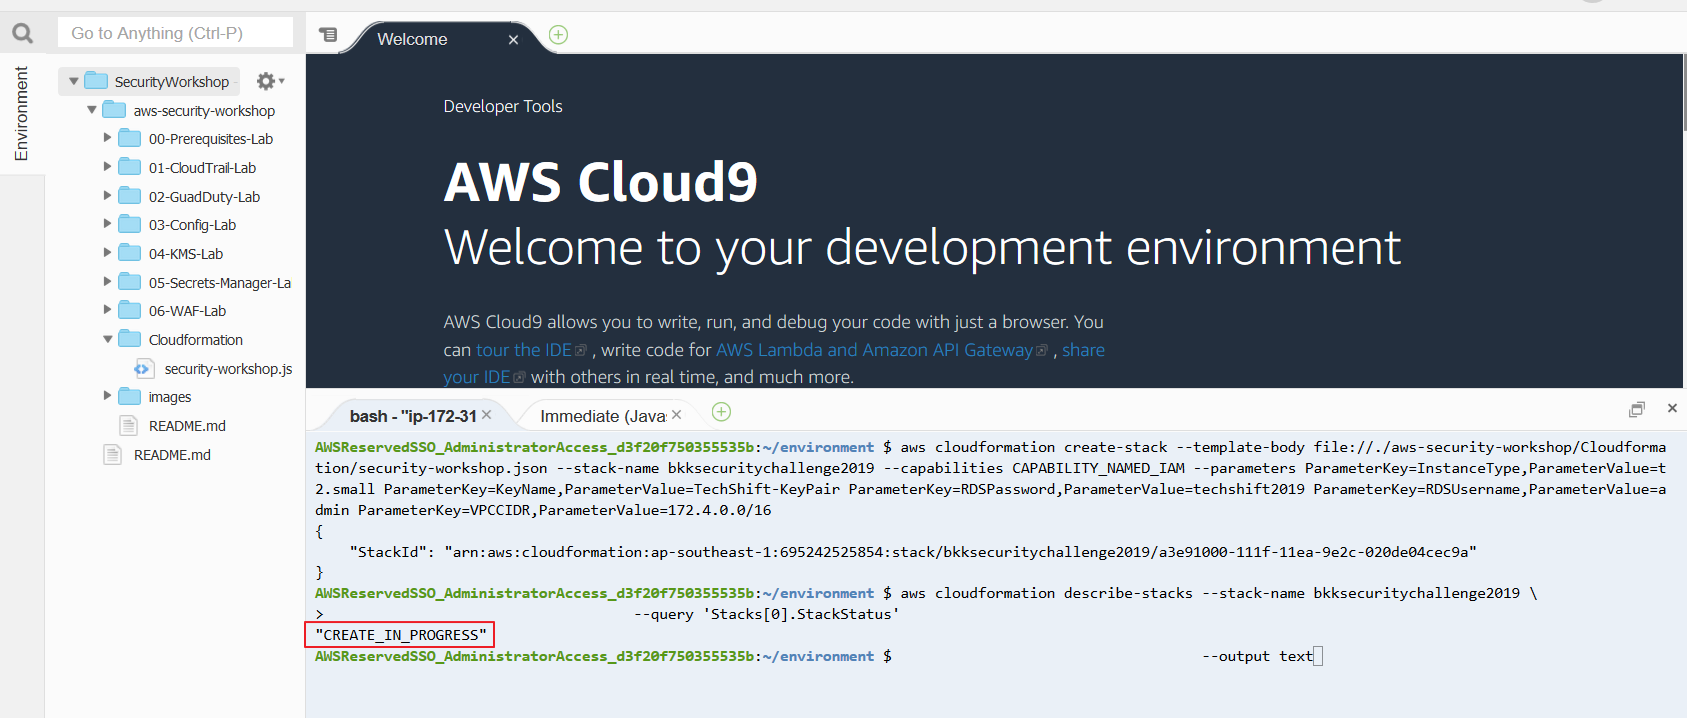
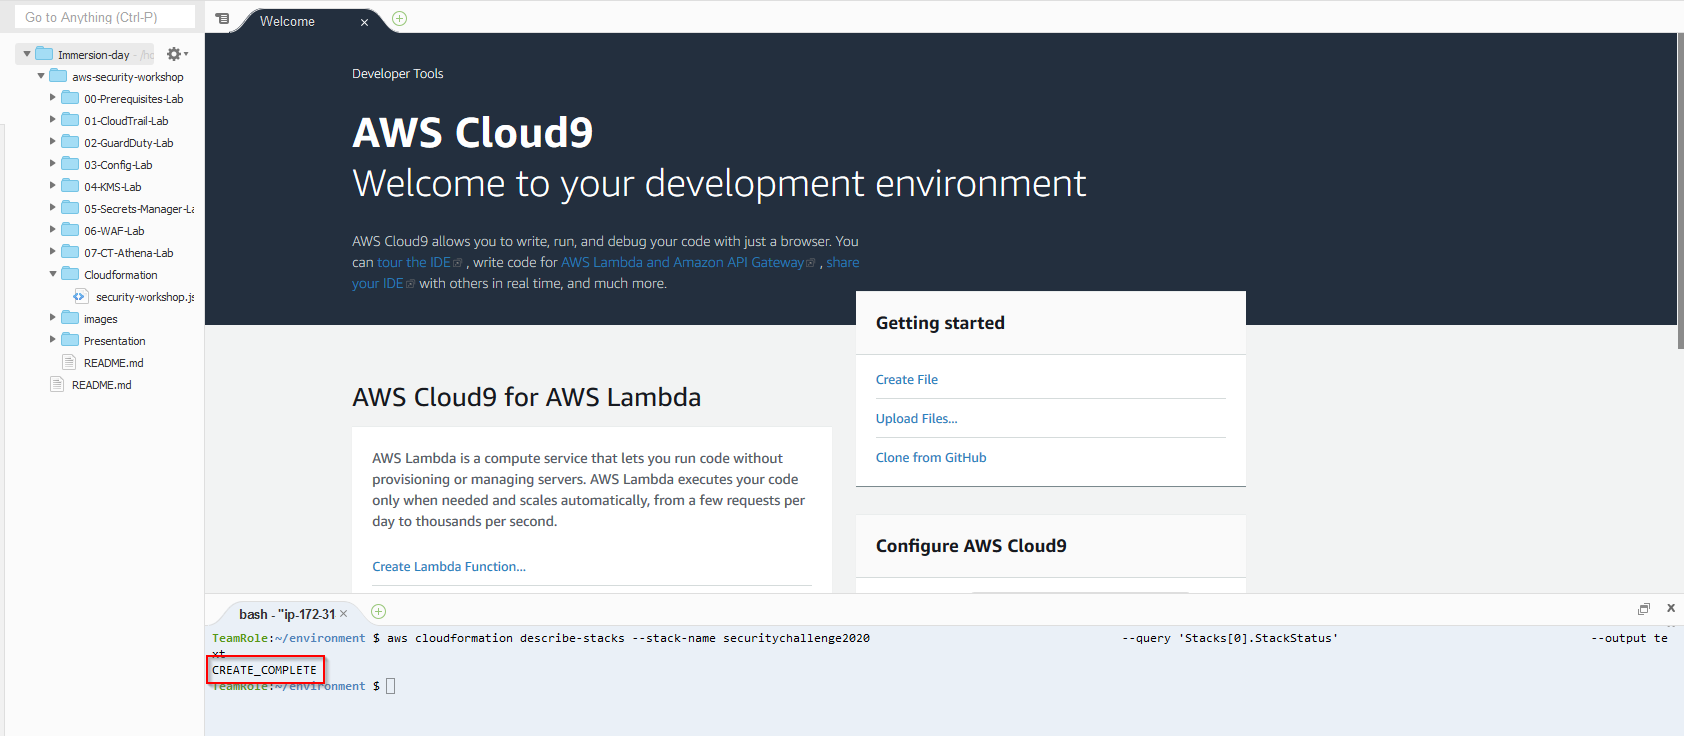
change the prerequisites

Changed region(s): [[0.0, 0.0, 1.0, 0.7354], [0.1235, 0.7354, 0.8955, 0.9499], [0.9572, 0.8579, 0.9881, 0.8886]]

diff --git a/00-Prerequisites-Lab/README.md b/00-Prerequisites-Lab/README.md
@@ -1,3 +1,5 @@
+# LAB 0 - Prerequisites
+
 ### Creating an EC2 Key Pair
 
 First we need to create a key pair that will be used to establish an SSH
@@ -11,7 +13,7 @@ connection.
 
 ![images](images/d3c32b52f680b2710b9bb1a93c1407c1.png)
 
-3)  Key in *TechShift-KeyPair* in the name box.
+3)  Key in *techshift-keypair* in the name box.
 
 ![images](images/c4490616d6988656078799a2695d6b01.png)
 
@@ -19,14 +21,13 @@ connection.
 
 ![images](images/7324683f50d7dbe301fa0c476d84153a.png)
 
-
 ### Create a Cloud9 environment
 
 1) Go to the Cloud9 console and press *Create environment*.
 
 ![prerequisites lab](images//1d057a6d465f25b6ff1842ee465ab08d.png)
 
-2) Provide a name for your environment - you can name it ___BKKSecurity___
+2) Provide a name for your environment - you can name it ___SecurityImmersionDay___
 
 ![images/](images/cloud9-environment-name.png)
 
@@ -44,12 +45,11 @@ connection.
 
 5) Now you have an IDE in the cloud.
 
-
-![images/](images/6bf8fc54f1f01e9eda93a8dc95f5dccd.png)
+![images/](images/6bf8fc54f1f01e9eda93a8dc95f5dccd1.png)
 
 6) Click on *Open IDE*
 
-7) In the Terminal type teh following commands
+7)In the Terminal type the following commands
 
 ```
 git clone https://github.com/andyliza/aws-security-challenge.git
@@ -59,15 +59,20 @@ git clone https://github.com/andyliza/aws-security-challenge.git
 
 8) Once the repository is cloned, please depoloy the CloudFormation template using the following command:
 
-```
-aws cloudformation create-stack --template-body file://./aws-security-challenge/CloudFormation/security-challenge.json --stack-name bkksecuritychallenge2019 --capabilities CAPABILITY_NAMED_IAM --parameters ParameterKey=InstanceType,ParameterValue=t2.small ParameterKey=KeyName,ParameterValue=TechShift-KeyPair ParameterKey=RDSPassword,ParameterValue=techshift2019 ParameterKey=RDSUsername,ParameterValue=admin ParameterKey=VPCCIDR,ParameterValue=172.4.0.0/16
+**:heavy_exclamation_mark: All parameters are case sensitive**
 
 ```
+aws cloudformation create-stack --template-body file://./aws-security-workshop/Cloudformation/security-workshop.json --stack-name securitychallenge2020 --capabilities CAPABILITY_NAMED_IAM --parameters ParameterKey=InstanceType,ParameterValue=t2.small ParameterKey=KeyName,ParameterValue=techshift-keypair ParameterKey=RDSPassword,ParameterValue=techshift2019 ParameterKey=RDSUsername,ParameterValue=admin ParameterKey=VPCCIDR,ParameterValue=172.4.0.0/16
+
+```
+![images/](AWSCloud9-Cloudformation.png)
 
 9) Once the installation begins you can check the status of the deployement using this command:
 
+**:heavy_exclamation_mark: All parameters are case sensitive**
+
 ```
-aws cloudformation describe-stacks --stack-name bkksecuritychallenge2019 \
+aws cloudformation describe-stacks --stack-name securitychallenge2020 \
                                    --query 'Stacks[0].StackStatus' \
                                    --output text
 ```
@@ -76,4 +81,4 @@ aws cloudformation describe-stacks --stack-name bkksecuritychallenge2019 \
 
  **:heavy_exclamation_mark: DO NOT move past this point until you see CREATE_COMPLETE as the status for your CloudFormation stack**
 
-[Go back](/../../)
+10) When you see that the operation has been completed successfully move to the [first lab (CloudTrail)](../01-CloudTrail-Lab/README.md)
